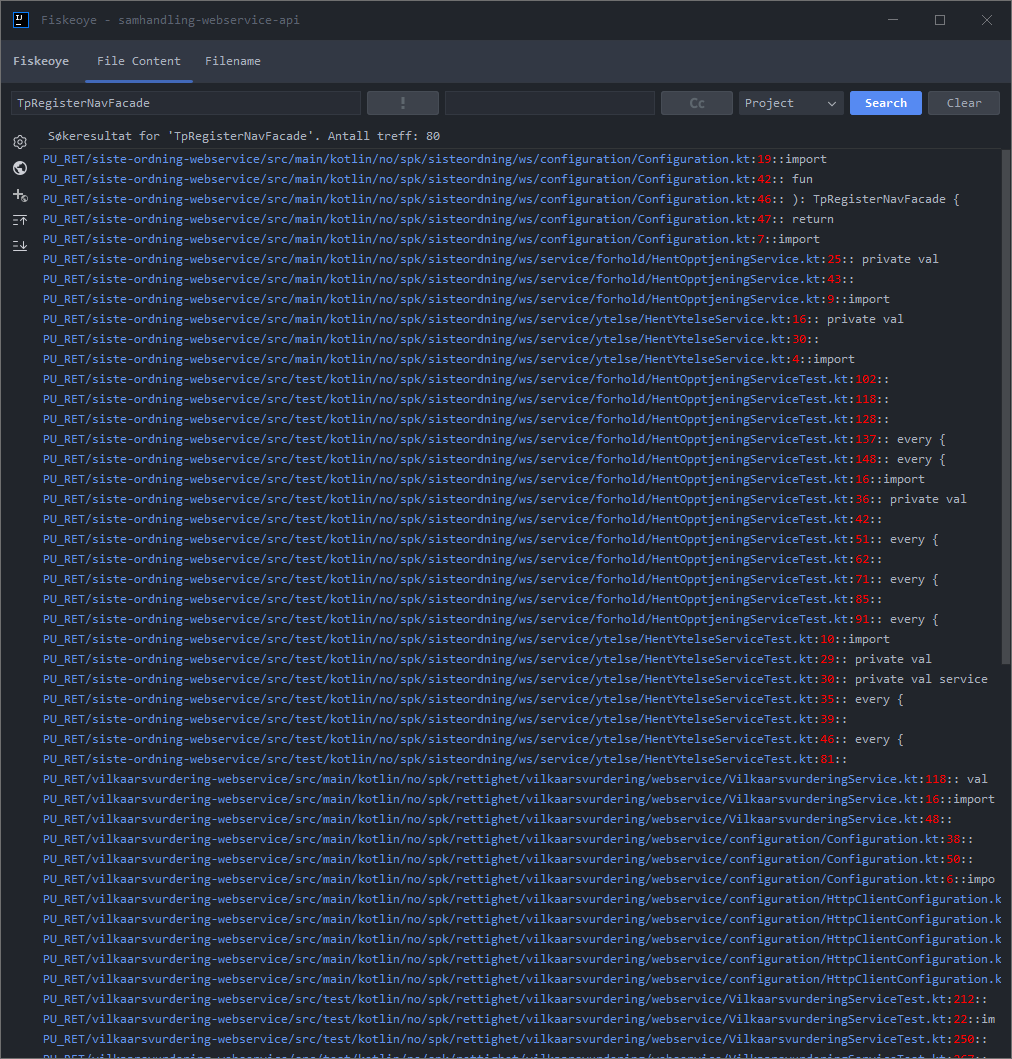
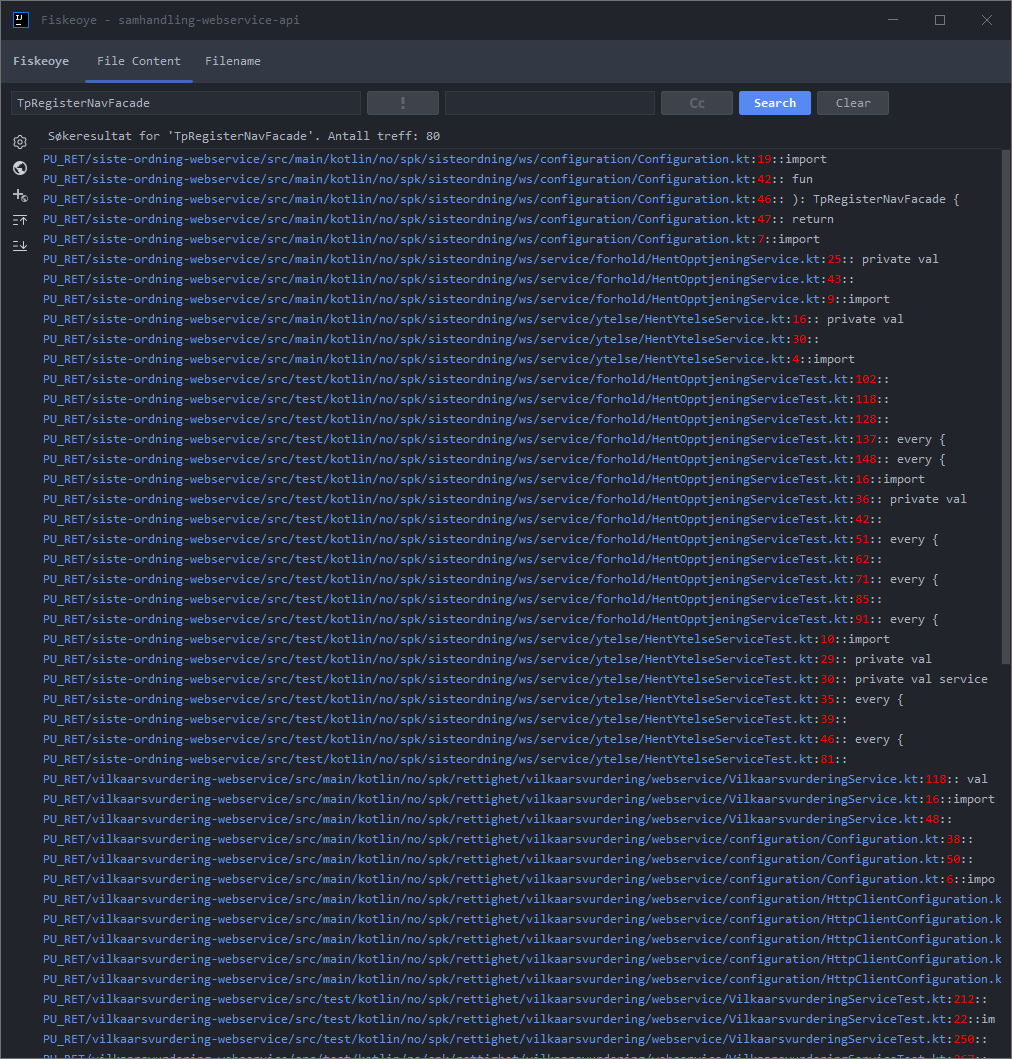
Remove sortBy (#2)

Changed region(s): [[0.8271, 0.0623, 1.0, 0.1246], [0.7352, 0.0623, 0.7964, 0.1246]]

diff --git a/src/main/kotlin/no/spk/fiskeoye/plugin/ui/FiskeoyePanel.kt b/src/main/kotlin/no/spk/fiskeoye/plugin/ui/FiskeoyePanel.kt
@@ -6,7 +6,6 @@ import com.intellij.openapi.actionSystem.ActionToolbar
 import com.intellij.openapi.actionSystem.DefaultActionGroup
 import com.intellij.openapi.actionSystem.impl.ActionToolbarImpl
 import com.intellij.openapi.project.DumbAware
-import com.intellij.openapi.ui.ComboBox
 import com.intellij.openapi.ui.JBMenuItem
 import com.intellij.openapi.ui.JBPopupMenu
 import com.intellij.openapi.ui.SimpleToolWindowPanel
@@ -19,7 +18,6 @@ import no.spk.fiskeoye.plugin.actions.window.OpenInBrowserAction
 import no.spk.fiskeoye.plugin.actions.window.ScrollToEndAction
 import no.spk.fiskeoye.plugin.actions.window.ScrollToTopAction
 import no.spk.fiskeoye.plugin.actions.window.SettingAction
-import no.spk.fiskeoye.plugin.enum.SortBy
 import no.spk.fiskeoye.plugin.icons.FiskeoyeIcons
 import no.spk.fiskeoye.plugin.icons.FiskeoyeIcons.CopyLink
 import no.spk.fiskeoye.plugin.icons.FiskeoyeIcons.CopyLinkForJira
@@ -34,7 +32,6 @@ import java.awt.Dimension
 import java.awt.Font
 import java.awt.event.KeyListener
 import javax.swing.JButton
-import javax.swing.JComboBox
 import javax.swing.JToggleButton
 import javax.swing.ListSelectionModel
 import javax.swing.event.PopupMenuEvent
@@ -138,14 +135,6 @@ internal abstract class FiskeoyePanel : SimpleToolWindowPanel(true, true), DumbA
                 val markdown = "[$text|$url]"
                 copy(markdown)
             }
-        }
-    }
-
-    protected fun buildSortByComboBox(): JComboBox<String> {
-        return ComboBox<String>().apply {
-            this.addItem(SortBy.PROJECT.value)
-            this.addItem(SortBy.REPO.value)
-            toolTipText = "Sort by"
         }
     }
 

diff --git a/src/main/kotlin/no/spk/fiskeoye/plugin/ui/FileContentPanel.kt b/src/main/kotlin/no/spk/fiskeoye/plugin/ui/FileContentPanel.kt
@@ -11,7 +11,6 @@ import no.spk.fiskeoye.plugin.icons.FiskeoyeIcons
 import no.spk.fiskeoye.plugin.listeners.button.FileContentClearListener
 import no.spk.fiskeoye.plugin.listeners.button.FileContentSearchListener
 import no.spk.fiskeoye.plugin.listeners.toggle.ToggleKeyListener
-import javax.swing.JComboBox
 import javax.swing.JToggleButton
 
 internal class FileContentPanel : FiskeoyePanel() {
@@ -21,7 +20,6 @@ internal class FileContentPanel : FiskeoyePanel() {
     internal val excludeButton: JToggleButton
     internal val excludeField: JBTextField
     internal val caseSensitiveButton: JToggleButton
-    internal val sortByCombobox: JComboBox<String>
     internal val urlLabel: JBLabel
 
     init {
@@ -37,7 +35,6 @@ internal class FileContentPanel : FiskeoyePanel() {
         }
         this.excludeField = buildTextField(30, FileContentSearchListener(this))
         this.caseSensitiveButton = buildCaseSensitiveButton()
-        this.sortByCombobox = buildSortByComboBox()
         this.urlLabel = buildUrlLabel()
 
         val searchButton = buildSeachButton(FileContentSearchListener(this))
@@ -48,7 +45,6 @@ internal class FileContentPanel : FiskeoyePanel() {
             add(CustomFiskeoyeAction(excludeButton))
             add(CustomFiskeoyeAction(excludeField))
             add(CustomFiskeoyeAction(caseSensitiveButton))
-            add(CustomFiskeoyeAction(sortByCombobox))
             add(CustomFiskeoyeAction(searchButton))
             add(CustomFiskeoyeAction(clearButton))
         }

diff --git a/src/main/kotlin/no/spk/fiskeoye/plugin/ui/FilenamePanel.kt b/src/main/kotlin/no/spk/fiskeoye/plugin/ui/FilenamePanel.kt
@@ -11,7 +11,6 @@ import no.spk.fiskeoye.plugin.icons.FiskeoyeIcons
 import no.spk.fiskeoye.plugin.listeners.button.FilenameClearListener
 import no.spk.fiskeoye.plugin.listeners.button.FilenameSearchListener
 import no.spk.fiskeoye.plugin.listeners.toggle.ToggleKeyListener
-import javax.swing.JComboBox
 import javax.swing.JToggleButton
 
 internal class FilenamePanel : FiskeoyePanel() {
@@ -20,7 +19,6 @@ internal class FilenamePanel : FiskeoyePanel() {
     internal val includeField: JBTextField
     internal val caseSensitiveButton: JToggleButton
     internal val searchInFullPathButton: JToggleButton
-    internal val sortByCombobox: JComboBox<String>
     internal val urlLabel: JBLabel
 
     init {
@@ -35,7 +33,6 @@ internal class FilenamePanel : FiskeoyePanel() {
             toolTipText = "Search in full path"
             addKeyListener(ToggleKeyListener(this))
         }
-        this.sortByCombobox = buildSortByComboBox()
         this.urlLabel = buildUrlLabel()
 
         val searchButton = buildSeachButton(FilenameSearchListener(this))
@@ -45,7 +42,6 @@ internal class FilenamePanel : FiskeoyePanel() {
             add(CustomFiskeoyeAction(includeField))
             add(CustomFiskeoyeAction(caseSensitiveButton))
             add(CustomFiskeoyeAction(searchInFullPathButton))
-            add(CustomFiskeoyeAction(sortByCombobox))
             add(CustomFiskeoyeAction(searchButton))
             add(CustomFiskeoyeAction(clearButton))
         }

diff --git a/src/main/kotlin/no/spk/fiskeoye/plugin/service/FiskeoyeService.kt b/src/main/kotlin/no/spk/fiskeoye/plugin/service/FiskeoyeService.kt
@@ -1,7 +1,6 @@
 package no.spk.fiskeoye.plugin.service
 
 import com.intellij.openapi.diagnostic.Logger
-import no.spk.fiskeoye.plugin.enum.SortBy
 import no.spk.fiskeoye.plugin.service.api.FileContentRequest
 import no.spk.fiskeoye.plugin.service.api.FilenameRequest
 import no.spk.fiskeoye.plugin.service.api.FiskeoyeRequest
@@ -21,20 +20,18 @@ internal object FiskeoyeService {
         includeText: String,
         isExclude: Boolean,
         excludeText: String,
-        isCaseSensitive: Boolean,
-        sortBy: SortBy
+        isCaseSensitive: Boolean
     ): Pair<String, List<Element>?> {
-        val request = FileContentRequest(includeText, isExclude, excludeText, isCaseSensitive, sortBy)
+        val request = FileContentRequest(includeText, isExclude, excludeText, isCaseSensitive)
         return send(request) { it.hasAttr("class") && ID == it.className() && it.children().isNotEmpty() }
     }
 
     internal fun getFilename(
         includeText: String,
         isCaseSensitive: Boolean,
-        isSearchInFullPath: Boolean,
-        sortBy: SortBy
+        isSearchInFullPath: Boolean
     ): Pair<String, List<Element>?> {
-        val request = FilenameRequest(includeText, isCaseSensitive, isSearchInFullPath, sortBy)
+        val request = FilenameRequest(includeText, isCaseSensitive, isSearchInFullPath)
         return send(request) { it.hasAttr("href") && it.hasParent() && ID == it.parent()!!.className() }
     }
 

diff --git a/src/test/kotlin/no/spk/fiskeoye/plugin/FiskeoyeServiceTest.kt b/src/test/kotlin/no/spk/fiskeoye/plugin/FiskeoyeServiceTest.kt
@@ -3,7 +3,6 @@ package no.spk.fiskeoye.plugin
 import io.kotest.core.spec.style.DescribeSpec
 import io.kotest.matchers.shouldNotBe
 import io.kotest.matchers.string.shouldContain
-import no.spk.fiskeoye.plugin.enum.SortBy
 import no.spk.fiskeoye.plugin.service.FiskeoyeService.getFileContent
 import no.spk.fiskeoye.plugin.service.FiskeoyeService.getFilename
 
@@ -16,9 +15,8 @@ internal class FiskeoyeServiceTest : DescribeSpec({
         val isExclude = false
         val excludeText = ""
         val isCaseSensitive = false
-        val sortedBy = SortBy.PROJECT
 
-        val (requestUrl, elements) = getFileContent(includeTest, isExclude, excludeText, isCaseSensitive, sortedBy)
+        val (requestUrl, elements) = getFileContent(includeTest, isExclude, excludeText, isCaseSensitive)
         requestUrl shouldContain fiskoyeUrl
         elements shouldNotBe null
     }
@@ -27,9 +25,8 @@ internal class FiskeoyeServiceTest : DescribeSpec({
         val includeText = "ResettableAccessTokenProvider"
         val isCaseSensitive = false
         val isSearchInFullPath = false
-        val sortedBy = SortBy.REPO
 
-        val (requestUrl, elements) = getFilename(includeText, isCaseSensitive, isSearchInFullPath, sortedBy)
+        val (requestUrl, elements) = getFilename(includeText, isCaseSensitive, isSearchInFullPath)
         requestUrl shouldContain fiskoyeUrl
         elements shouldNotBe null
     }

diff --git a/src/main/kotlin/no/spk/fiskeoye/plugin/listeners/button/FileContentSearchListener.kt b/src/main/kotlin/no/spk/fiskeoye/plugin/listeners/button/FileContentSearchListener.kt
@@ -4,7 +4,6 @@ import com.intellij.openapi.diagnostic.Logger
 import kotlinx.coroutines.CoroutineScope
 import kotlinx.coroutines.Dispatchers
 import kotlinx.coroutines.launch
-import no.spk.fiskeoye.plugin.enum.SortBy
 import no.spk.fiskeoye.plugin.service.FiskeoyeService.getFileContent
 import no.spk.fiskeoye.plugin.ui.FileContentPanel
 import no.spk.fiskeoye.plugin.util.addMessage
@@ -33,14 +32,13 @@ internal class FileContentSearchListener(private val fileContentPanel: FileConte
                 val isExclude = excludeButton.isSelected
                 val excludeText = excludeField.text
                 val isCaseSensitive = caseSensitiveButton.isSelected
-                val sortBy = SortBy.valueOf((sortByCombobox.selectedItem as String).uppercase())
 
                 if (includeText.length < 3) {
                     mainTable.addMessage(getInvalidString())
                     return@launch
                 }
 
-                val (requestUrl, elements) = supplyAsync { getFileContent(includeText, isExclude, excludeText, isCaseSensitive, sortBy) }.get()
+                val (requestUrl, elements) = supplyAsync { getFileContent(includeText, isExclude, excludeText, isCaseSensitive) }.get()
                 if (elements == null) {
                     mainTable.addMessage(getGeneralErrorMessage())
                     return@launch

diff --git a/src/main/kotlin/no/spk/fiskeoye/plugin/listeners/button/FilenameSearchListener.kt b/src/main/kotlin/no/spk/fiskeoye/plugin/listeners/button/FilenameSearchListener.kt
@@ -4,7 +4,6 @@ import com.intellij.openapi.diagnostic.Logger
 import kotlinx.coroutines.CoroutineScope
 import kotlinx.coroutines.Dispatchers
 import kotlinx.coroutines.launch
-import no.spk.fiskeoye.plugin.enum.SortBy
 import no.spk.fiskeoye.plugin.service.FiskeoyeService.getFilename
 import no.spk.fiskeoye.plugin.ui.FilenamePanel
 import no.spk.fiskeoye.plugin.util.addMessage
@@ -31,14 +30,13 @@ internal class FilenameSearchListener(private val filenamePanel: FilenamePanel) 
 
                 val isCaseSensitive = caseSensitiveButton.isSelected
                 val isSearchInFullPath = searchInFullPathButton.isSelected
-                val sortBy = SortBy.valueOf((sortByCombobox.selectedItem as String).uppercase())
 
                 if (includeText.length < 3) {
                     mainTable.addMessage(getInvalidString())
                     return@launch
                 }
 
-                val (requestUrl, elements) = supplyAsync { getFilename(includeText, isCaseSensitive, isSearchInFullPath, sortBy) }.get()
+                val (requestUrl, elements) = supplyAsync { getFilename(includeText, isCaseSensitive, isSearchInFullPath) }.get()
                 if (elements == null) {
                     mainTable.addMessage(getGeneralErrorMessage())
                     return@launch

diff --git a/src/main/kotlin/no/spk/fiskeoye/plugin/service/api/FileContentRequest.kt b/src/main/kotlin/no/spk/fiskeoye/plugin/service/api/FileContentRequest.kt
@@ -1,6 +1,5 @@
 package no.spk.fiskeoye.plugin.service.api
 
-import no.spk.fiskeoye.plugin.enum.SortBy
 import no.spk.fiskeoye.plugin.util.toOnOff
 import java.net.URLEncoder.encode
 import java.nio.charset.StandardCharsets.UTF_8
@@ -9,16 +8,14 @@ internal data class FileContentRequest(
     val includeText: String,
     val isExclude: Boolean,
     val excludeText: String,
-    val isCaseSensitive: Boolean,
-    val sortBy: SortBy
+    val isCaseSensitive: Boolean
 ) : FiskeoyeRequest() {
 
     override fun getUrl(): String {
         return "$fiskeoyeUrl/index.php?searchstring=${encode(includeText, UTF_8)}&" +
                 "negate=${isExclude.toOnOff()}&" +
                 "filterstring=${encode(excludeText, UTF_8)}&" +
-                "cs=${isCaseSensitive.toOnOff()}&" +
-                "sorting=${sortBy.value.lowercase()}"
+                "cs=${isCaseSensitive.toOnOff()}"
     }
 
 }

diff --git a/src/main/kotlin/no/spk/fiskeoye/plugin/service/api/FilenameRequest.kt b/src/main/kotlin/no/spk/fiskeoye/plugin/service/api/FilenameRequest.kt
@@ -1,6 +1,5 @@
 package no.spk.fiskeoye.plugin.service.api
 
-import no.spk.fiskeoye.plugin.enum.SortBy
 import no.spk.fiskeoye.plugin.util.toOnOff
 import java.net.URLEncoder.encode
 import java.nio.charset.StandardCharsets.UTF_8
@@ -8,15 +7,13 @@ import java.nio.charset.StandardCharsets.UTF_8
 internal data class FilenameRequest(
     val includeText: String,
     val isCaseSensitive: Boolean,
-    val isSearchInFullPath: Boolean,
-    val sortBy: SortBy
+    val isSearchInFullPath: Boolean
 ) : FiskeoyeRequest() {
 
     override fun getUrl(): String {
         return "$fiskeoyeUrl/filenames.php?searchstring=${encode(includeText, UTF_8)}&" +
                 "cs=${isCaseSensitive.toOnOff()}&" +
-                "ufp=${isSearchInFullPath.toOnOff()}&" +
-                "sorting=${sortBy.value.lowercase()}"
+                "ufp=${isSearchInFullPath.toOnOff()}"
     }
 
 }

diff --git a/src/main/kotlin/no/spk/fiskeoye/plugin/listeners/button/FilenameClearListener.kt b/src/main/kotlin/no/spk/fiskeoye/plugin/listeners/button/FilenameClearListener.kt
@@ -10,7 +10,6 @@ internal class FilenameClearListener(private val filenamePanel: FilenamePanel) :
             includeField.text = ""
             caseSensitiveButton.isSelected = false
             searchInFullPathButton.isSelected = false
-            sortByCombobox.selectedIndex = 0
             mainTable.clear()
             includeField.requestFocus()
         }

diff --git a/src/main/kotlin/no/spk/fiskeoye/plugin/listeners/button/FileContentClearListener.kt b/src/main/kotlin/no/spk/fiskeoye/plugin/listeners/button/FileContentClearListener.kt
@@ -11,7 +11,6 @@ internal class FileContentClearListener(private val fileContentPanel: FileConten
             excludeButton.isSelected = false
             excludeField.text = ""
             caseSensitiveButton.isSelected = false
-            sortByCombobox.selectedIndex = 0
             mainTable.clear()
             includeField.requestFocus()
         }

diff --git a/README.md b/README.md
@@ -28,8 +28,15 @@ fiskeoye-plugin-0.0.1.zip
 
 ## Installation
 
-After building the project we can install it manually using
-<kbd>Settings</kbd> > <kbd>Plugins</kbd> > <kbd>⚙</kbd> > <kbd>Install plugin from disk...</kbd>
+- Using IDE built-in plugin system:
+
+  <kbd>Settings/Preferences</kbd> > <kbd>Plugins</kbd> > <kbd>Marketplace</kbd> > <kbd>Search for "Fiskeoye"</kbd> >
+  <kbd>Install Plugin</kbd>
+
+- Manually:
+
+  Download the [latest release](https://github.com/statens-pensjonskasse/fiskeoye-plugin/releases/latest) and install it manually using
+  <kbd>Settings/Preferences</kbd> > <kbd>Plugins</kbd> > <kbd>⚙</kbd> > <kbd>Install plugin from disk...</kbd>
 
 ## Usage
 
